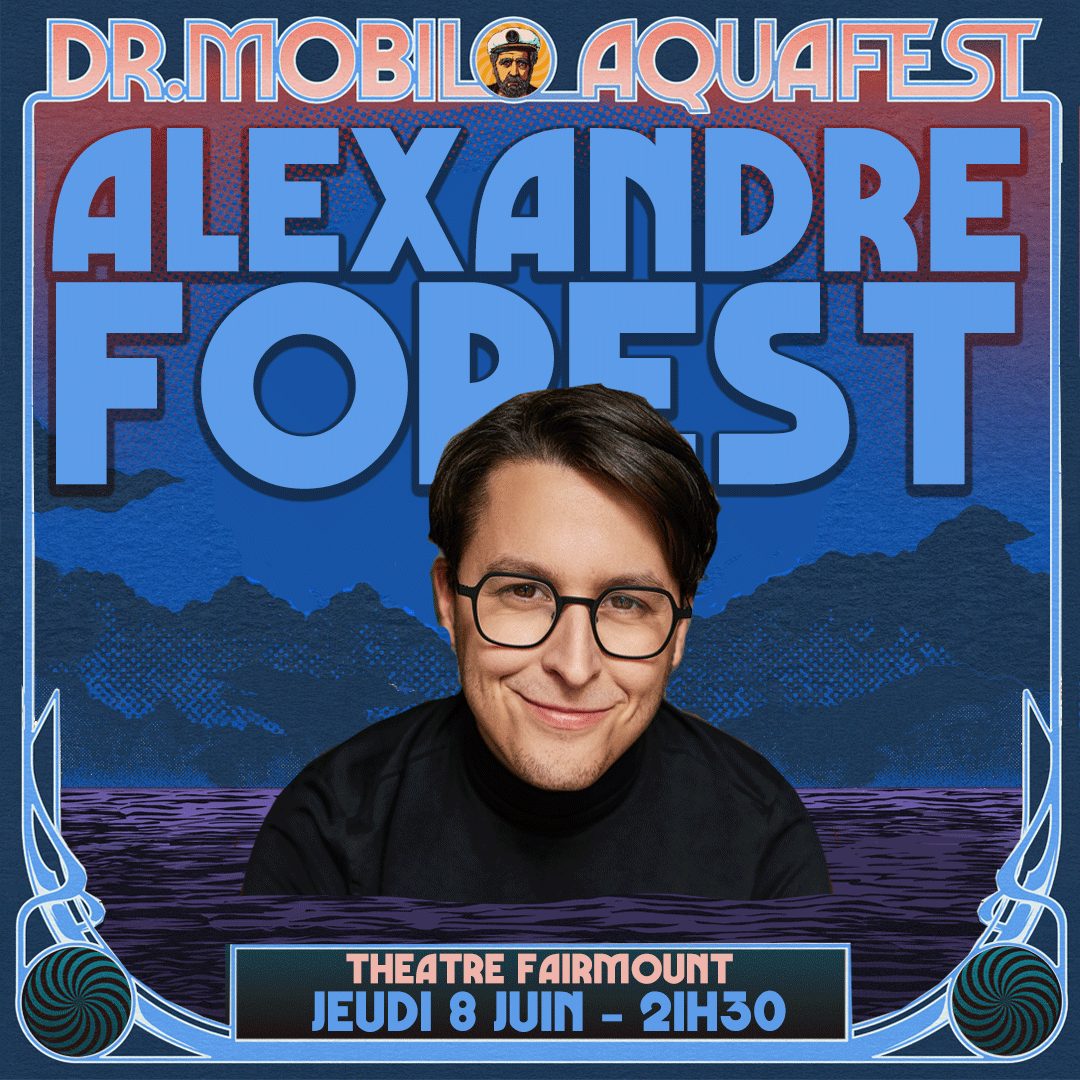
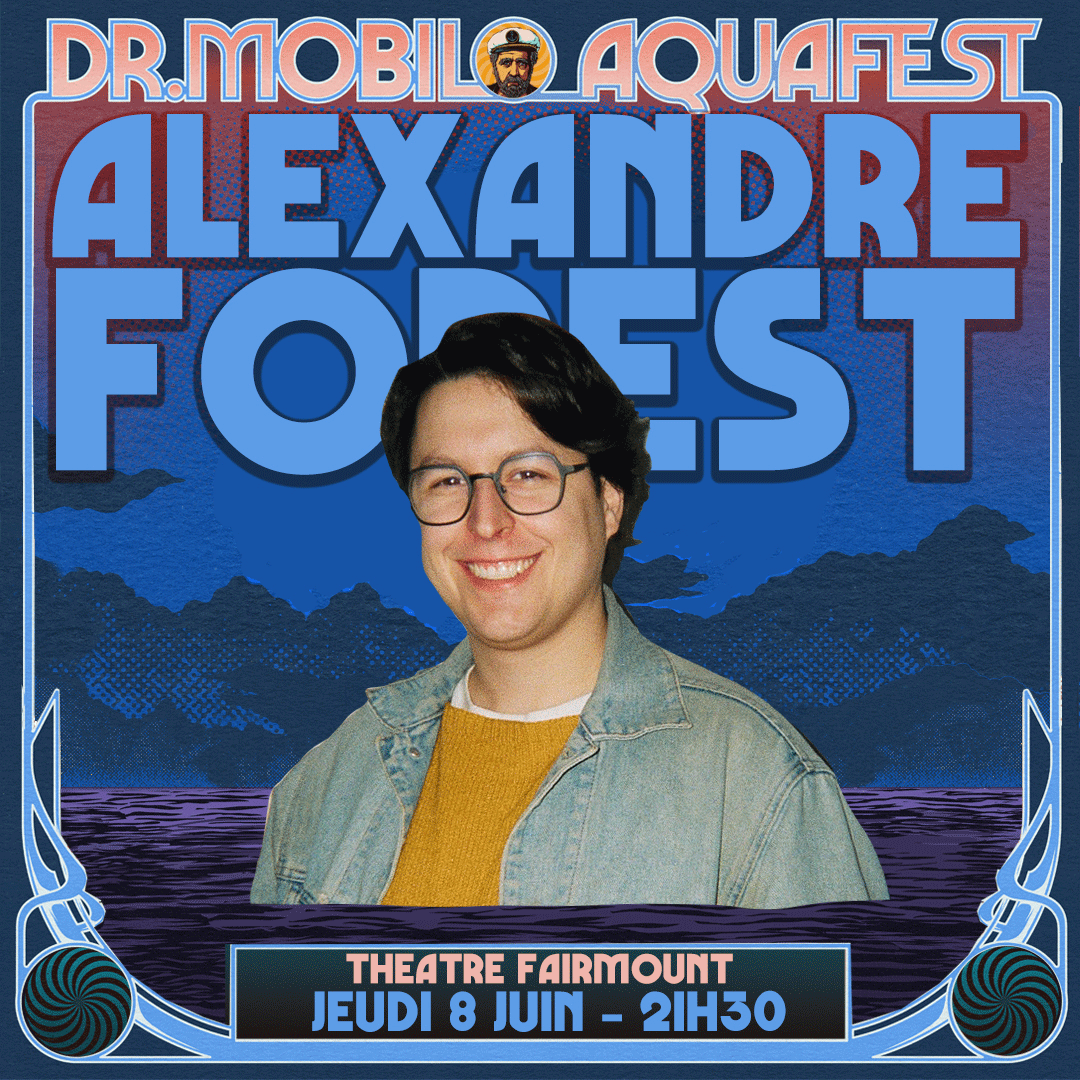
Update Alex Forest

diff --git a/src/pages/spectacles/alex-forest.md b/src/pages/spectacles/alex-forest.md
@@ -1,7 +1,7 @@
 ---
 templateKey: spectacle
 type: spectacle
-title: 'Alex Forest'
+title: 'Pour ne pas Mourir Demain'
 dates: 
   - billet: 'https://www.universe.com/events/alex-forest-tickets-P31K7G'
     date: 2023-06-09T01:30:00.000Z
@@ -12,4 +12,4 @@ artistes:
   - Alex Forest
 
 ---
-J’ai toujours aimé les histoires, les contes. J’ai toujours aimé en écouter, en apprendre des nouvelles. Avec l’humour, je me suis jamais permis de le faire alors pour un soir, je vous raconterai mes histoires. Toutes des histoires de mon passé, des histoires de mon coin. Tout dans le but de vous faire voyager par les mots dans le rire (et essayer de voler la job de Fred Pellerin). Je décide de vous présenter un spectacle tout en conteur.
+Pour ne pas mourir demain» est un spectacle de stand up où je me questionne sur mon rapport à l’existence. Ça peut sembler profond comme réflexion, mais ça reste un spectacle de blagues. Pensez pas avoir une expérience philosophique en voyant ça. C’est plus une soirée de douce rigolade. Ma vision de la vie, la façon de la vivre a changé avec le temps puis j’ai envie d’en parler. C’est un spectacle sur moi qui vieillit. La personne que j’étais hier et surtout la personne que je serai demain.
